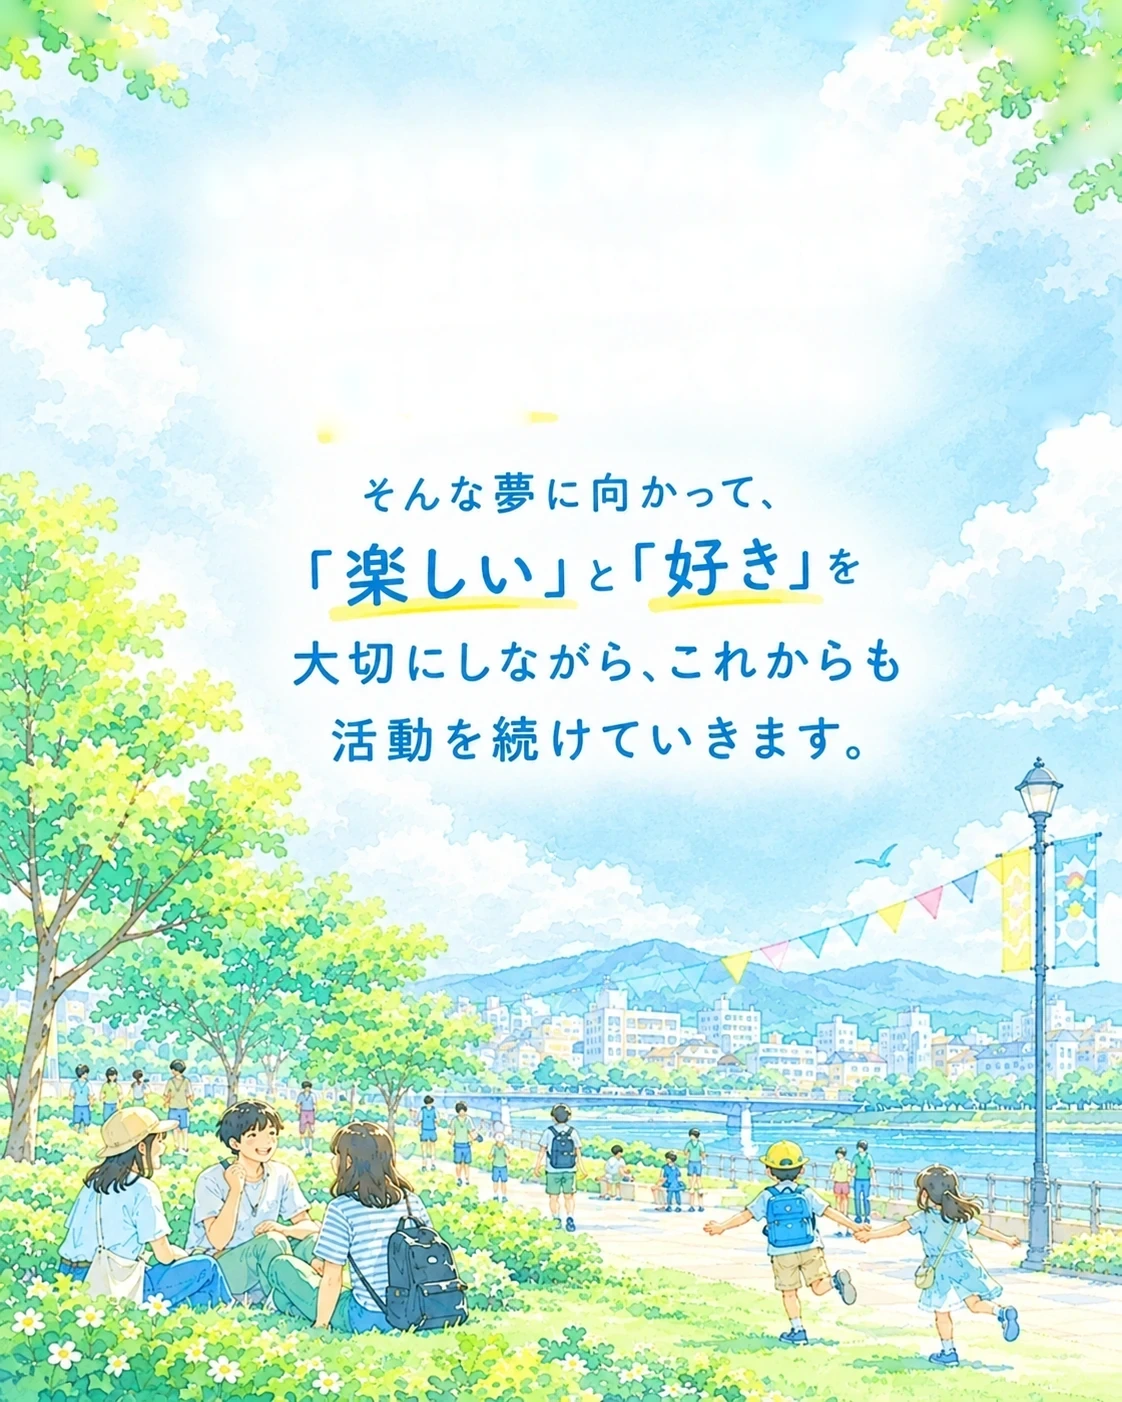
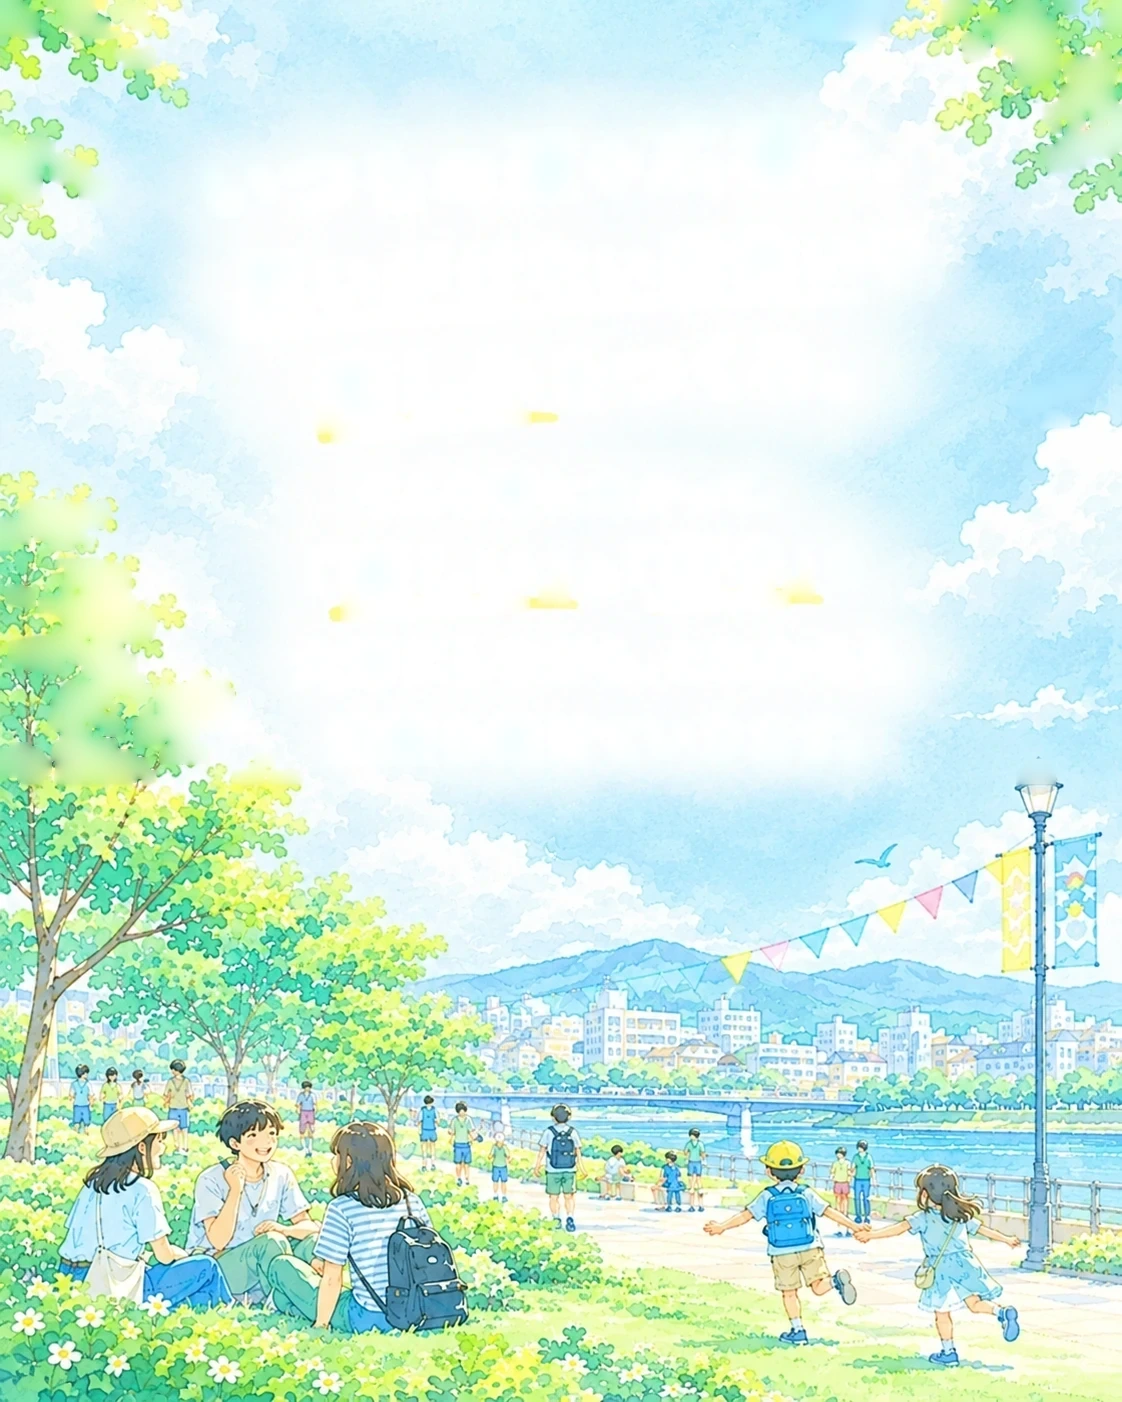
Pull the third panel's body text out of its wide picture
Its words and the riverside run together without a gap, so the scan for where
the artwork starts stopped above the body text: only the heading was lifted
out, and the rest stayed baked into the picture, sitting still while the
heading rose. Hand the boundary in and the whole block comes out; the two
layers recombine to within 1.31 of 255. Its text now reaches 56% of the
frame, so the clip limit comes back a little, to 1.70.

diff --git a/top-c/index.html b/top-c/index.html
@@ -24,7 +24,7 @@
 <link rel="preconnect" href="https://fonts.googleapis.com">
 <link rel="preconnect" href="https://fonts.gstatic.com" crossorigin>
 <link href="https://fonts.googleapis.com/css2?family=Outfit:wght@500;600;700&family=Zen+Kaku+Gothic+New:wght@400;500;700;900&display=swap" rel="stylesheet">
-<link rel="stylesheet" href="/assets/mp.css?v=35">
+<link rel="stylesheet" href="/assets/mp.css?v=36">
 </head>
 <body>
 <header class="nav">
@@ -156,8 +156,8 @@
         alt="MACHI PLAYは、公共空間に眠る、そんな人と人との新たな関わりの可能性を、遊びの力で切り拓いていく取り組みです。その中で大事にしているのは、一人ひとりの「好き」を大切にすること、そして、人と一緒に何かを楽しむことです。誰かと一緒に楽しみ、その人の好きなものや人柄を知る。そんな出会いを通して、その人が暮らすまちも少しずつ身近になっていきます。"></picture><picture><source media="(max-width:560px) and (min-aspect-ratio:65/100)" srcset="/assets/sp-panel-2w-tx.webp" width="1122" height="1402"><img class="p-tx" src="/assets/sp-panel-2-tx.webp" width="992" height="1475" loading="lazy" decoding="async" alt="" aria-hidden="true"></picture></div>
     </div>
     <div class="slide">
-      <div class="p-wrap"><picture><source media="(max-width:560px) and (min-aspect-ratio:65/100)" srcset="/assets/sp-panel-3w-bg.webp" width="1122" height="1402"><img class="p-bg" src="/assets/sp-panel-3-bg.webp" width="941" height="1506" loading="lazy"
-        alt="いつもの道や広場に、思いがけない出会いや楽しみをつくる。そんな夢に向かって、「楽しい」と「好き」を大切にしながら、これからも活動を続けていきます。"></picture><picture><source media="(max-width:560px) and (min-aspect-ratio:65/100)" srcset="/assets/sp-panel-3w-tx.webp" width="1122" height="1402"><img class="p-tx" src="/assets/sp-panel-3-tx.webp" width="941" height="1506" loading="lazy" decoding="async" alt="" aria-hidden="true"></picture></div>
+      <div class="p-wrap"><picture><source media="(max-width:560px) and (min-aspect-ratio:65/100)" srcset="/assets/sp-panel-3w-bg.webp?v=2" width="1122" height="1402"><img class="p-bg" src="/assets/sp-panel-3-bg.webp" width="941" height="1506" loading="lazy"
+        alt="いつもの道や広場に、思いがけない出会いや楽しみをつくる。そんな夢に向かって、「楽しい」と「好き」を大切にしながら、これからも活動を続けていきます。"></picture><picture><source media="(max-width:560px) and (min-aspect-ratio:65/100)" srcset="/assets/sp-panel-3w-tx.webp?v=2" width="1122" height="1402"><img class="p-tx" src="/assets/sp-panel-3-tx.webp" width="941" height="1506" loading="lazy" decoding="async" alt="" aria-hidden="true"></picture></div>
     </div>
   </div>
   <div class="trigs"><i class="trig"></i><i class="trig"></i><i class="trig"></i><i class="trig"></i></div>

diff --git a/assets/mp.css b/assets/mp.css
@@ -169,9 +169,9 @@ a{color:inherit}
   .panels.js .slide.on{opacity:1;transform:none;z-index:2;
     transition:opacity .5s cubic-bezier(.22,.61,.36,1), transform .6s cubic-bezier(.22,.61,.36,1)}
 }
-/* 広い版は文字が上半分（53%）までなので、もっと切っても大丈夫 */
+/* 広い版は文字が上から56%までなので、もっと切っても大丈夫 */
 @media(max-width:560px) and (min-aspect-ratio:65/100){
-  .panels{--cap:1.75}
+  .panels{--cap:1.70}
 }
 
 @media(max-width:560px) and (prefers-reduced-motion: reduce){

diff --git a/top-c/about/index.html b/top-c/about/index.html
@@ -24,7 +24,7 @@
 <link rel="preconnect" href="https://fonts.googleapis.com">
 <link rel="preconnect" href="https://fonts.gstatic.com" crossorigin>
 <link href="https://fonts.googleapis.com/css2?family=Outfit:wght@500;600;700&family=Zen+Kaku+Gothic+New:wght@400;500;700;900&display=swap" rel="stylesheet">
-<link rel="stylesheet" href="/assets/mp.css?v=35">
+<link rel="stylesheet" href="/assets/mp.css?v=36">
 </head>
 <body>
 <header class="nav">

diff --git a/top-c/contact/index.html b/top-c/contact/index.html
@@ -24,7 +24,7 @@
 <link rel="preconnect" href="https://fonts.googleapis.com">
 <link rel="preconnect" href="https://fonts.gstatic.com" crossorigin>
 <link href="https://fonts.googleapis.com/css2?family=Outfit:wght@500;600;700&family=Zen+Kaku+Gothic+New:wght@400;500;700;900&display=swap" rel="stylesheet">
-<link rel="stylesheet" href="/assets/mp.css?v=35">
+<link rel="stylesheet" href="/assets/mp.css?v=36">
 </head>
 <body>
 <header class="nav">

diff --git a/top-c/projects/ideas/index.html b/top-c/projects/ideas/index.html
@@ -24,7 +24,7 @@
 <link rel="preconnect" href="https://fonts.googleapis.com">
 <link rel="preconnect" href="https://fonts.gstatic.com" crossorigin>
 <link href="https://fonts.googleapis.com/css2?family=Outfit:wght@500;600;700&family=Zen+Kaku+Gothic+New:wght@400;500;700;900&display=swap" rel="stylesheet">
-<link rel="stylesheet" href="/assets/mp.css?v=35">
+<link rel="stylesheet" href="/assets/mp.css?v=36">
 </head>
 <body>
 <header class="nav">

diff --git a/top-c/projects/index.html b/top-c/projects/index.html
@@ -24,7 +24,7 @@
 <link rel="preconnect" href="https://fonts.googleapis.com">
 <link rel="preconnect" href="https://fonts.gstatic.com" crossorigin>
 <link href="https://fonts.googleapis.com/css2?family=Outfit:wght@500;600;700&family=Zen+Kaku+Gothic+New:wght@400;500;700;900&display=swap" rel="stylesheet">
-<link rel="stylesheet" href="/assets/mp.css?v=35">
+<link rel="stylesheet" href="/assets/mp.css?v=36">
 </head>
 <body>
 <header class="nav">

diff --git a/top-c/projects/workshop/index.html b/top-c/projects/workshop/index.html
@@ -22,7 +22,7 @@
 <link rel="preconnect" href="https://fonts.googleapis.com">
 <link rel="preconnect" href="https://fonts.gstatic.com" crossorigin>
 <link href="https://fonts.googleapis.com/css2?family=Outfit:wght@500;600;700&family=Zen+Kaku+Gothic+New:wght@400;500;700;900&display=swap" rel="stylesheet">
-<link rel="stylesheet" href="/assets/mp.css?v=35">
+<link rel="stylesheet" href="/assets/mp.css?v=36">
 </head>
 <body>
 <header class="nav">
